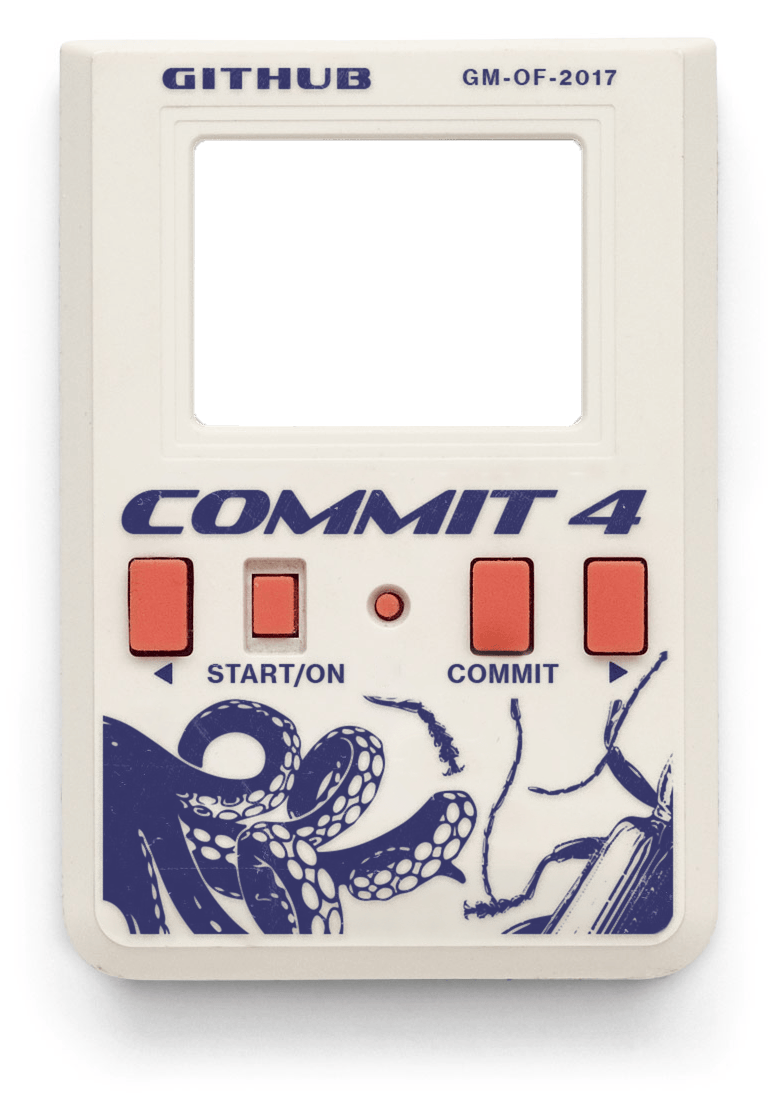
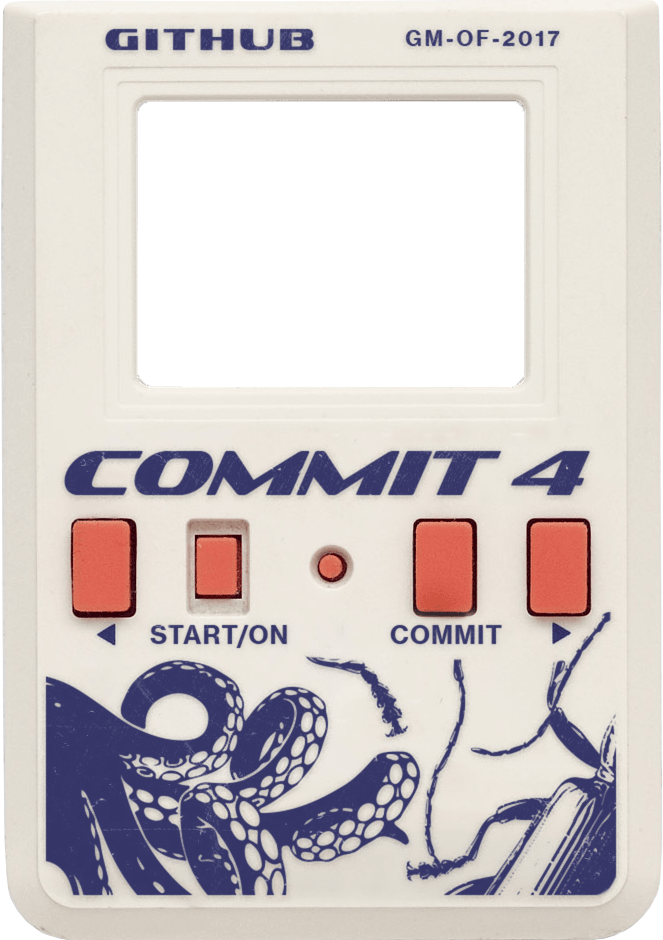
Update case layout and shadow, add pressed button asset

diff --git a/src/core/commit4.tsx b/src/core/commit4.tsx
@@ -4,8 +4,8 @@ import { Scene } from "@/core/scene";
 
 export const Commit4 = () => {
   return (
-    <div className="relative mx-auto flex min-h-screen w-3xl h-275 items-start justify-center after:absolute after:inset-0 after:bg-case after:bg-no-repeat">
-      <div className="relative mt-33 after:absolute after:inset-0 after:bg-screen after:bg-no-repeat">
+    <div className="relative mx-auto my-8 flex h-235 min-h-screen w-166 items-start justify-center after:absolute after:inset-0 after:bg-case after:bg-no-repeat after:drop-shadow-xl">
+      <div className="relative mt-23 after:absolute after:inset-0 after:bg-screen after:bg-no-repeat">
         <Suspense>
           <Scene />
         </Suspense>

diff --git a/src/static/css/main.css b/src/static/css/main.css
@@ -3,4 +3,5 @@
 @theme {
   --background-image-case: url("../images/bg-1@2x.png");
   --background-image-screen: url("../images/bg-2@2x.png");
+  --background-image-button: url("../images/bg-3@2x.png");
 }
